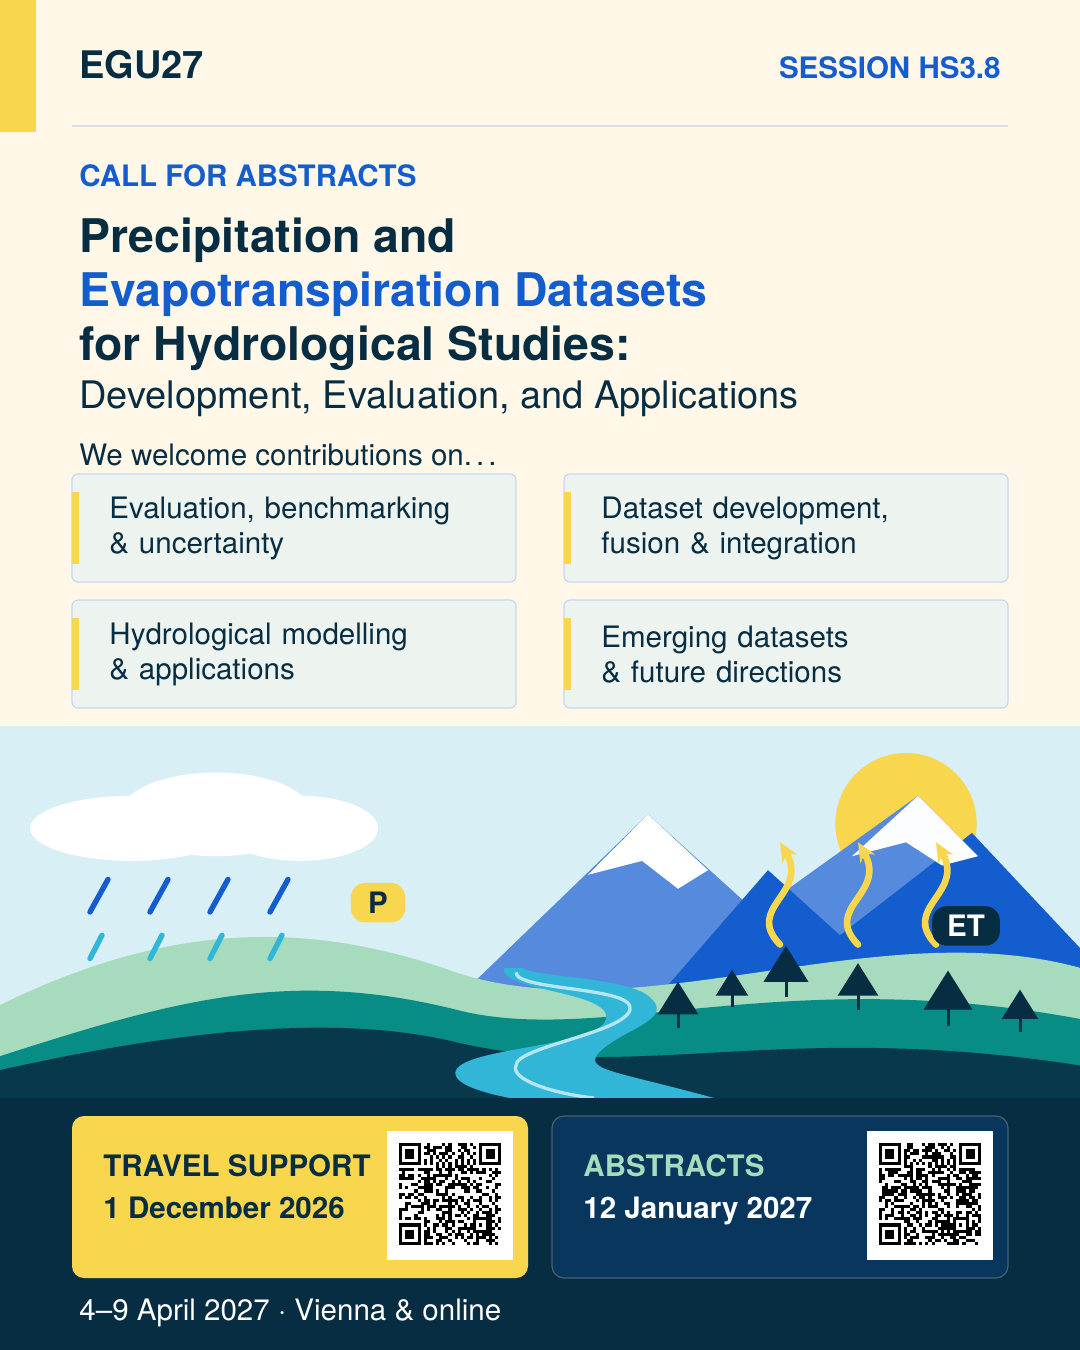
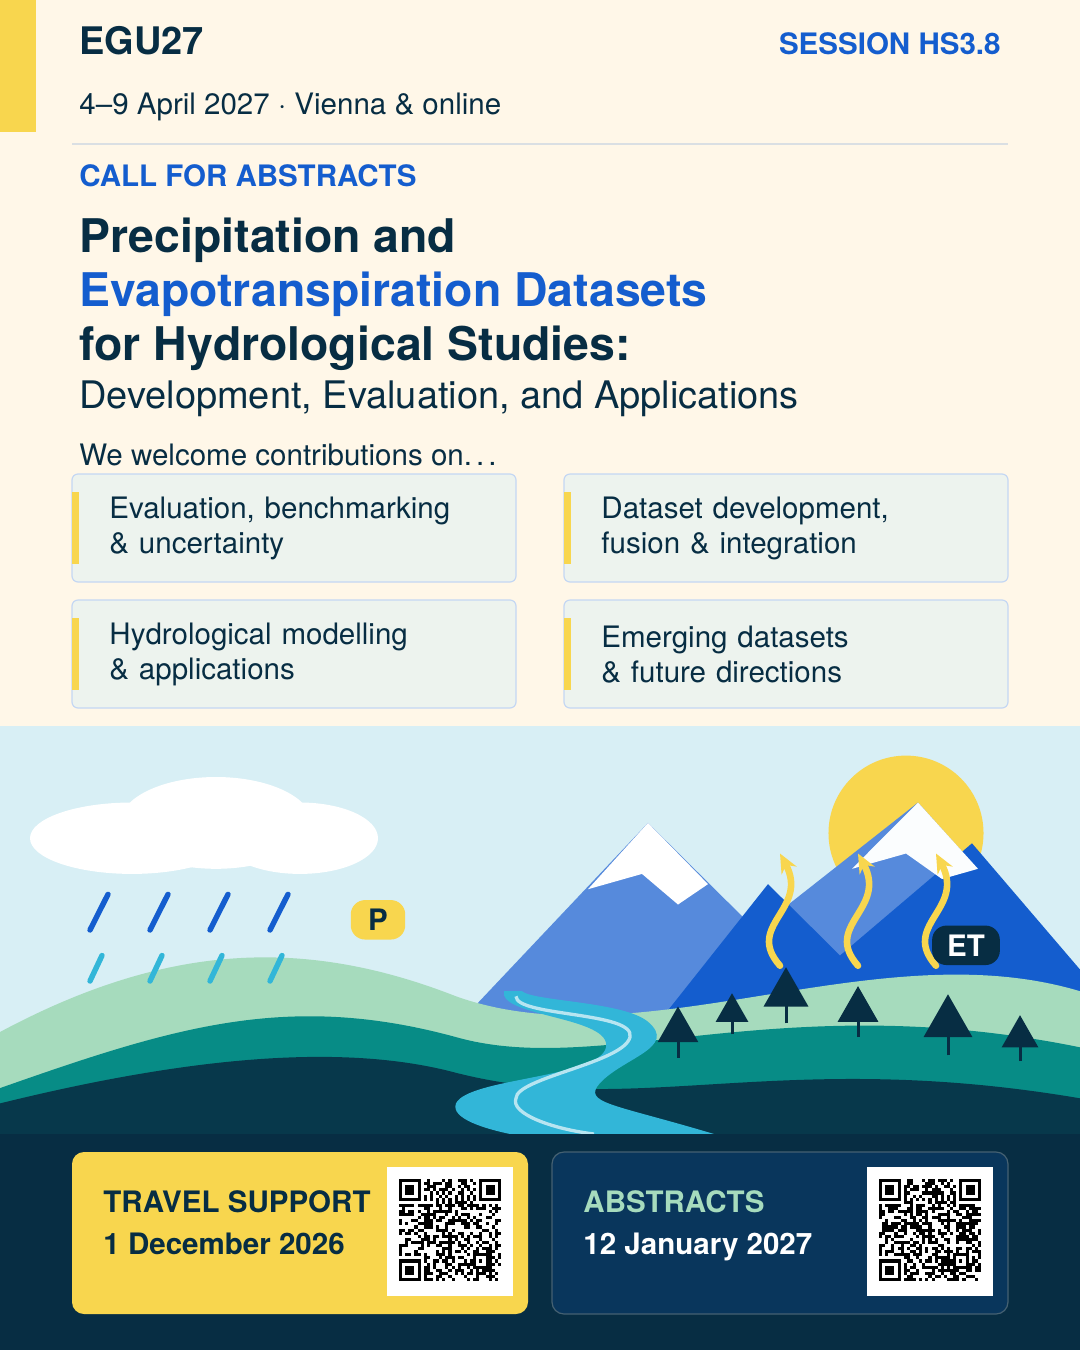
Move Instagram conference dates and location into header
Place conference details beneath EGU27 and reclaim footer space for the landscape. Inspected the final render, decoded both QR codes and passed packaging validation.

AI assistance: GPT-6 (Codex).

diff --git a/site/index.html b/site/index.html
@@ -131,7 +131,7 @@
           <div class="section-heading"><div><p class="eyebrow dark-eyebrow">Spread the word</p><h2 id="downloads-title">Campaign downloads</h2></div><p>Social graphics, ready-to-share copy,<br>and editable LaTeX source.</p></div>
           <div class="downloads-grid">
             <article class="download-card">
-              <a class="asset-preview portrait-preview" href="downloads/egu27-hs38-instagram.png" aria-label="View the Instagram graphic"><img src="downloads/egu27-hs38-instagram.png?v=6aee810be322" width="1080" height="1350" loading="lazy" alt="EGU27 HS3.8 call for abstracts on precipitation and evapotranspiration datasets for hydrological studies. Abstract deadline: 12 January 2027, 13:00 CET."></a>
+              <a class="asset-preview portrait-preview" href="downloads/egu27-hs38-instagram.png" aria-label="View the Instagram graphic"><img src="downloads/egu27-hs38-instagram.png?v=8521f8736036" width="1080" height="1350" loading="lazy" alt="EGU27 HS3.8 call for abstracts on precipitation and evapotranspiration datasets for hydrological studies. Abstract deadline: 12 January 2027, 13:00 CET."></a>
               <div class="download-card-bottom"><div><h3>Instagram</h3><p>Portrait · 1080 × 1350</p></div><div class="download-links"><a href="downloads/egu27-hs38-instagram.png" download>PNG <span aria-hidden="true">↓</span></a><a href="downloads/egu27-hs38-instagram.pdf" download>PDF <span aria-hidden="true">↓</span></a></div></div>
             </article>
             <article class="download-card">

diff --git a/docs/history.md b/docs/history.md
@@ -40,3 +40,5 @@
 - Further reduced Instagram title typography to 22/18 pt, keeping 14 pt body text and tightening title-to-introduction spacing.
 
 - Moved the Instagram contribution introduction and four topic boxes down together by 5 mm to create clearer separation below the session title.
+
+- Moved Instagram conference dates and location beneath the EGU27 header, removed the footer duplicate and reclaimed the footer space for the mountain/river illustration.
